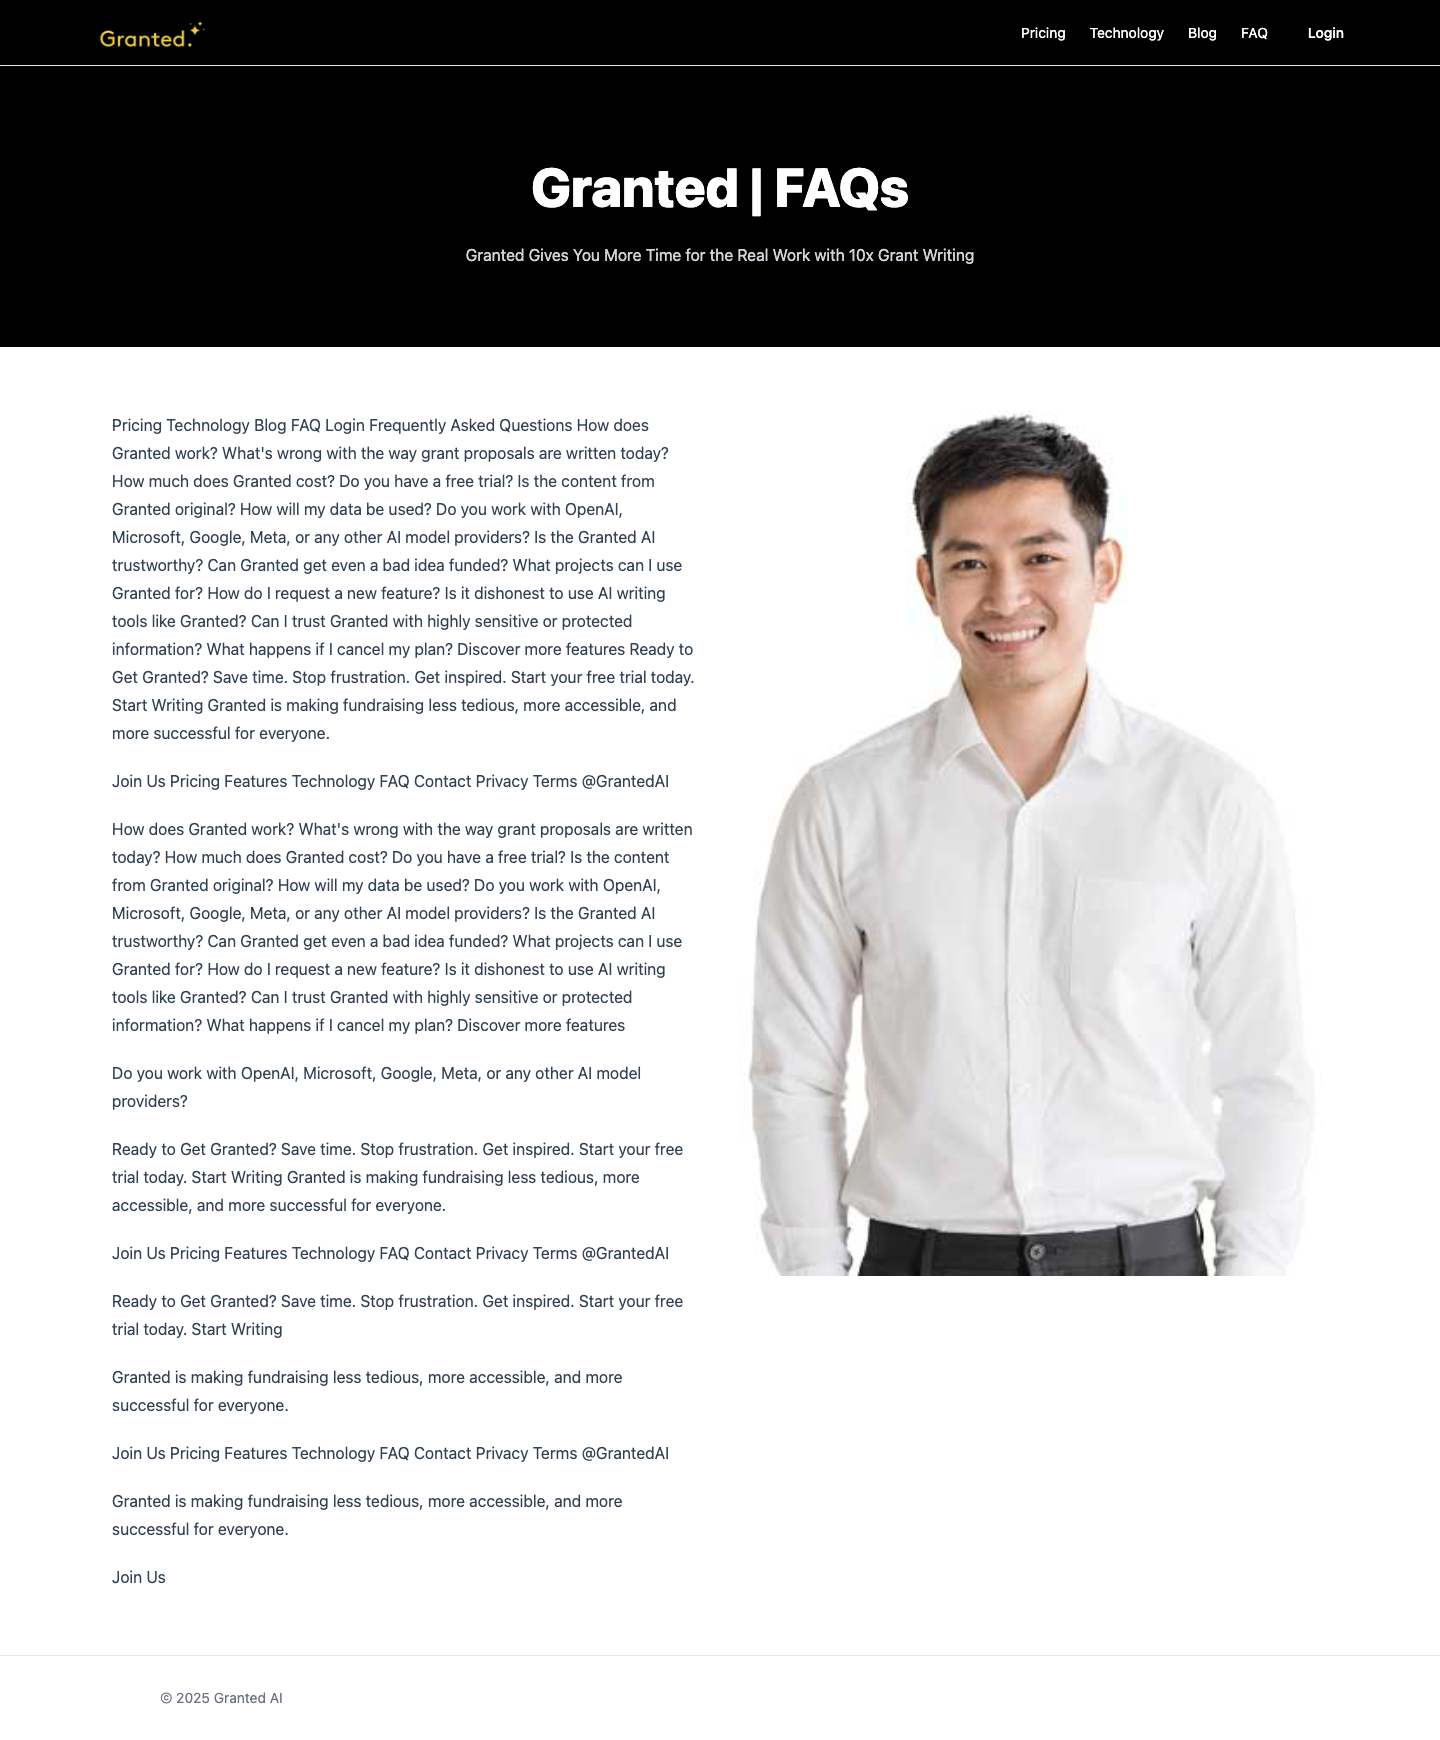
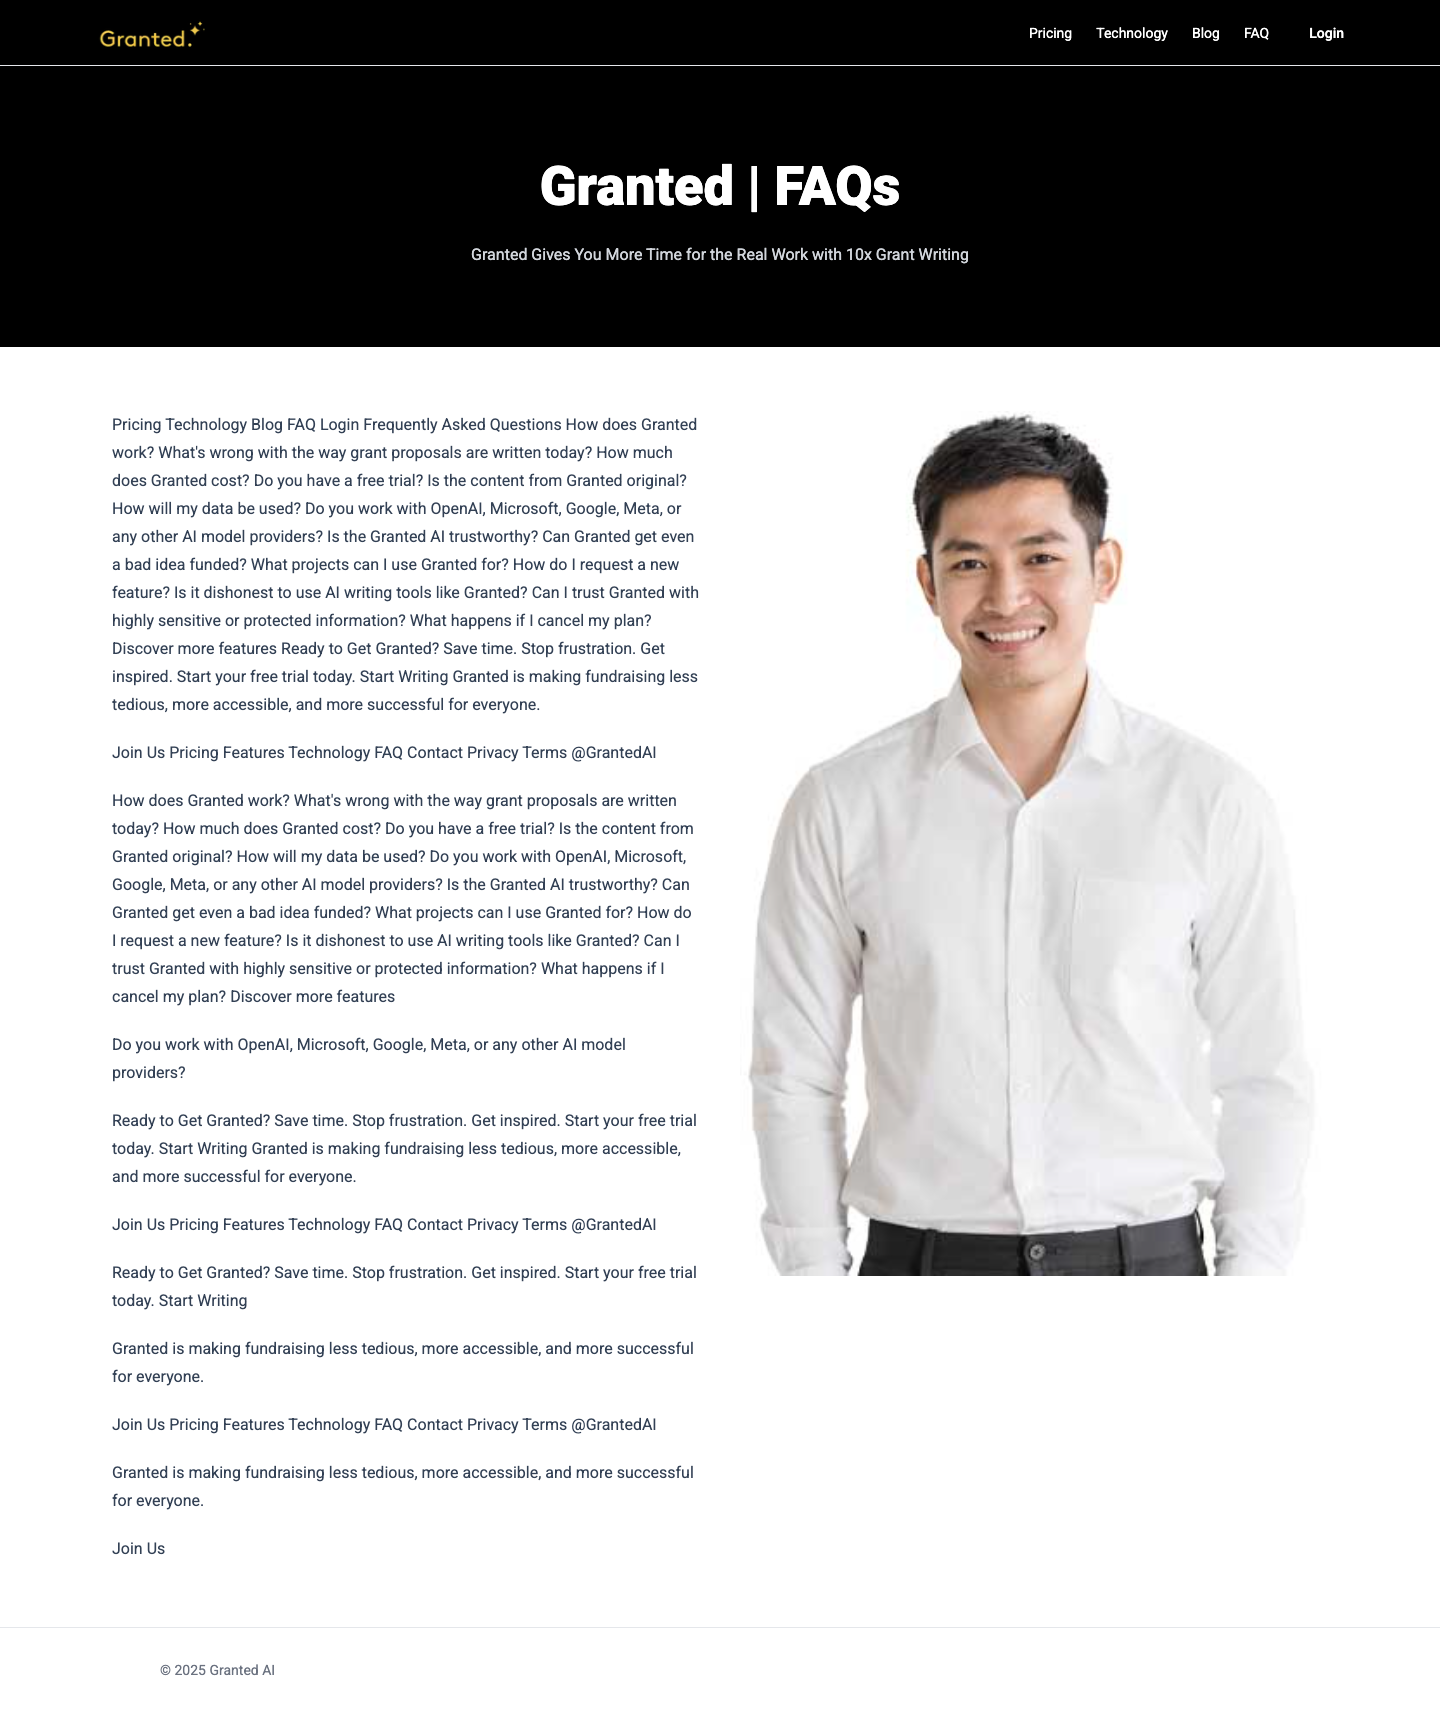
feat(models): parameterize OpenAI model via OPENAI_MODEL env; remove unsupported timeout from chat call

diff --git a/site/app/page.tsx b/site/app/page.tsx
@@ -13,9 +13,9 @@ export default async function Home() {
     <div>
       {/* Hero (black) */}
       <section className="bg-black text-white">
-        <div className="mx-auto max-w-7xl px-6 md:px-8 py-20 md:py-28 text-center">
-          <h1 className="font-extrabold leading-[1.05] text-[46px] md:text-[72px] lg:text-[84px] tracking-tight">{headline}</h1>
-          <div className="mt-6 text-[22px] md:text-[28px] font-semibold">{subhead}</div>
+        <div className="mx-auto max-w-[1200px] px-6 md:px-8 py-24 md:py-32 text-center">
+          <h1 className="font-extrabold leading-[1.04] text-[48px] md:text-[76px] lg:text-[90px] tracking-tight">{headline}</h1>
+          <div className="mt-6 text-[24px] md:text-[30px] font-semibold">{subhead}</div>
           <div className="mt-5 text-gray-300 max-w-3xl mx-auto space-y-2 text-[16px] md:text-[18px]">
             <p>{p1}</p>
             <p>{p2}</p>
@@ -28,7 +28,7 @@ export default async function Home() {
 
       {/* Section: quality of ideas */}
       <section className="bg-white">
-        <div className="mx-auto max-w-7xl px-6 md:px-8 py-16 grid md:grid-cols-2 gap-12 items-center">
+        <div className="mx-auto max-w-[1200px] px-6 md:px-8 py-20 grid md:grid-cols-2 gap-16 items-center">
           <div>
             <h2 className="text-[34px] md:text-[44px] font-extrabold leading-tight">{h2}</h2>
             <p className="mt-5 text-gray-700 max-w-xl text-[16px] md:text-[18px]">
@@ -46,7 +46,7 @@ export default async function Home() {
 
       {/* Section: donor appeal to NIH R01 */}
       <section className="bg-white">
-        <div className="mx-auto max-w-7xl px-6 md:px-8 py-14 grid md:grid-cols-2 gap-12 items-start">
+        <div className="mx-auto max-w-[1200px] px-6 md:px-8 py-16 grid md:grid-cols-2 gap-16 items-start">
           <div className="order-2 md:order-1 text-center">
             <img src="/images/imgi_9_img3.jpg" alt="Use cases" width="460" height="540" className="mx-auto rounded-xl" />
           </div>
@@ -67,8 +67,8 @@ export default async function Home() {
 
       {/* Section: 3 Steps */}
       <section className="bg-black text-white">
-        <div className="mx-auto max-w-7xl px-6 md:px-8 py-20">
-          <h2 className="text-[34px] md:text-[54px] font-extrabold text-center">3 Steps To Your Fastest Funding Ever</h2>
+        <div className="mx-auto max-w-[1200px] px-6 md:px-8 py-24">
+          <h2 className="text-[36px] md:text-[56px] font-extrabold text-center">3 Steps To Your Fastest Funding Ever</h2>
           <div className="mt-12 grid gap-8 md:grid-cols-3">
             <div className="rounded-[28px] bg-white/95 text-black p-8 shadow border border-gray-200">
               <div className="text-4xl font-extrabold text-yellow-400">1</div>
@@ -91,7 +91,7 @@ export default async function Home() {
 
       {/* Section: Level the playing field */}
       <section className="bg-white">
-        <div className="mx-auto max-w-7xl px-6 md:px-8 py-20 grid md:grid-cols-2 gap-12 items-center">
+        <div className="mx-auto max-w-[1200px] px-6 md:px-8 py-24 grid md:grid-cols-2 gap-16 items-center">
           <div className="order-2 md:order-1 text-center">
             <img src="/images/imgi_8_img2.jpg" alt="Equity" width="520" height="520" className="mx-auto rounded-xl" />
           </div>
@@ -105,8 +105,8 @@ export default async function Home() {
 
       {/* CTA band */}
       <section className="bg-black">
-        <div className="mx-auto max-w-7xl px-6 md:px-8 py-24">
-          <div className="mx-auto max-w-5xl rounded-[24px] p-10 md:p-16 shadow-lg" style={{background:'linear-gradient(180deg,#fde68a,#f59e0b)'}}>
+        <div className="mx-auto max-w-[1200px] px-6 md:px-8 py-28">
+          <div className="mx-auto max-w-5xl rounded-[24px] p-10 md:p-16 shadow-lg brand-cta-gradient">
             <h3 className="text-[34px] md:text-[54px] font-extrabold text-black text-center">Ready to Get Granted?</h3>
             <p className="mt-4 text-black/80 text-center text-lg">Save time. Stop frustration. Get inspired. Start your free trial today.</p>
             <div className="mt-10 flex justify-center">

diff --git a/web/app/api/autopilot/autodraft/route.ts b/web/app/api/autopilot/autodraft/route.ts
@@ -30,14 +30,15 @@ Return ONLY valid JSON in the schema provided by the user. Use the agency pack:
       },
     }
 
-    const completion = await openai.chat.completions.create({
-      model: 'gpt-4o-mini',
+  const model = process.env.OPENAI_MODEL || 'gpt-4o-mini'
+  const completion = await openai.chat.completions.create({
+      model,
       messages: [
         { role: 'system', content: system },
         { role: 'user', content: JSON.stringify(user) },
       ],
       temperature: 0.2,
-    })
+  })
     const raw = completion.choices[0]?.message?.content || '{}'
     let parsed: any
     try { parsed = JSON.parse(raw) } catch { parsed = { title: 'Draft', sections: [] } }
@@ -69,4 +70,3 @@ Return ONLY valid JSON in the schema provided by the user. Use the agency pack:
     return NextResponse.json({ error: String(e) }, { status: 500 })
   }
 }
-

diff --git a/web/app/api/autopilot/fill-gap/route.ts b/web/app/api/autopilot/fill-gap/route.ts
@@ -13,11 +13,11 @@ export async function POST(req: NextRequest) {
   const gap = missing[0] || 'General'
   const system = 'Patch one missing slot in SBIR section. Write 2–5 concise sentences in markdown. Avoid repetition.'
   const user = { gapLabel: gap, sectionMarkdown: section.contentMd }
+  const model = process.env.OPENAI_MODEL || 'gpt-4o-mini'
   const r = await openai.chat.completions.create({
-    model: 'gpt-4o-mini',
+    model,
     messages: [{ role: 'system', content: system }, { role: 'user', content: JSON.stringify(user) }],
     temperature: 0.2,
-    timeout: 20000,
   })
   const patch = r.choices[0]?.message?.content || ''
   const updated = (section.contentMd || '') + '\n\n' + patch

diff --git a/web/app/api/autopilot/tighten/route.ts b/web/app/api/autopilot/tighten/route.ts
@@ -17,8 +17,9 @@ export async function POST(req: NextRequest) {
   const before = (section.coverage as any)?.completionPct || 0
   const system = 'Compress section to <= LIMIT words without removing sentences that satisfy required elements.'
   const user = { LIMIT: limit, sectionMarkdown: section.contentMd }
+  const model = process.env.OPENAI_MODEL || 'gpt-4o-mini'
   const r = await openai.chat.completions.create({
-    model: 'gpt-4o-mini',
+    model,
     messages: [{ role: 'system', content: system }, { role: 'user', content: JSON.stringify(user) }],
     temperature: 0.2,
   })

diff --git a/site/app/globals.css b/site/app/globals.css
@@ -5,6 +5,8 @@
 :root {
   --background: 255 255 255;
   --foreground: 17 24 39;
+  --brand-yellow-1: #FFE580;
+  --brand-yellow-2: #FFD132;
 }
 
 html, body { height: 100%; }
@@ -12,3 +14,6 @@ body { color: rgb(var(--foreground)); background: rgb(var(--background)); }
 
 a { text-decoration: none; }
 
+.brand-cta-gradient {
+  background: linear-gradient(180deg, var(--brand-yellow-1), var(--brand-yellow-2));
+}
